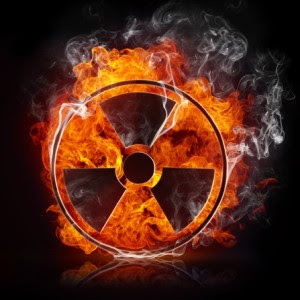
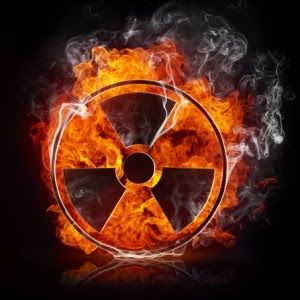
src/images: image optimizations
same quality but 70-90% decreased size

diff --git a/index.html b/index.html
@@ -388,7 +388,7 @@
               </div>
             </section>
             <section class="section--center mdl-grid mdl-grid--no-spacing mdl-shadow--2dp">
-              <header class="section__play-btn mdl-cell mdl-cell--3-col-desktop mdl-cell--2-col-tablet mdl-cell--4-col-phone mdl-color--teal-100 mdl-color-text--white">
+              <header class="section__play-btn mdl-cell mdl-cell--3-col-desktop mdl-cell--2-col-tablet mdl-cell--4-col-phone mdl-color--teal-100 mdl-color-text--white saatvik">
                 <i class="material-icons">user_circle_filled</i>
               </header>
               <div class="mdl-card mdl-cell mdl-cell--9-col-desktop mdl-cell--6-col-tablet mdl-cell--4-col-phone">
